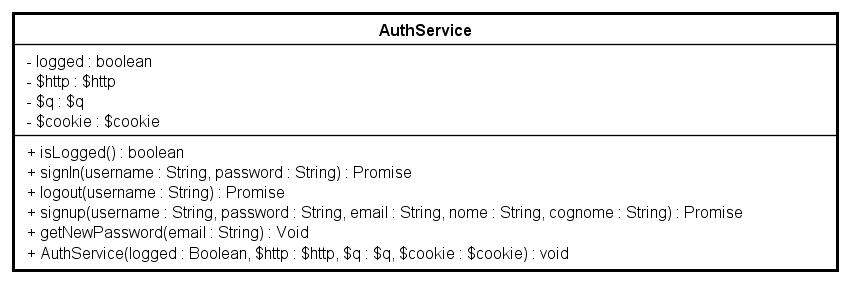
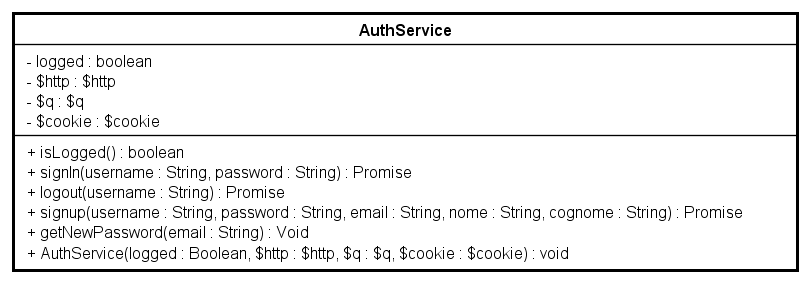
sistemate frasi/metodi che uscivano dal bordo

diff --git a/RP/DefinizioneDiProdotto/sezioni/Front-End/Services/QuizziPedia_Front-End_Services_QuizService.tex b/RP/DefinizioneDiProdotto/sezioni/Front-End/Services/QuizziPedia_Front-End_Services_QuizService.tex
@@ -51,12 +51,12 @@
 	\begin{itemize}
 		\item \texttt{username: String} \\ Parametro che rappresenta l'utente del quale andranno caricati tutti i questionari.
 	\end{itemize}
-	\item \texttt{+ getDoneQuestionnaire(username: String): Promise} \\ Metodo che restituisce tutti i questionari svolti da un utente. Il metodo ritorna una \textit{Promise\ped{G}}. In caso la \textit{Promise\ped{G}} venga rifiutata, verrà restituito al \texttt{UserDetailsController} un oggetto \texttt{ErrorModelInfo} contenente tutti i dettagli dell'errore; \\
+	\item \texttt{+ getDoneQuestionnaire(username: String): Promise} \\ Metodo che restituisce tutti i questionari svolti da un utente. Il metodo ritorna una \textit{Promise\ped{G}}. In caso la \textit{Promise\ped{G}} venga rifiutata, verrà restituito al \\ \texttt{UserDetailsController} un oggetto \texttt{ErrorModelInfo} contenente tutti i dettagli dell'errore; \\
 	\textbf{Parametri}: 
 	\begin{itemize}
 		\item \texttt{username: String} \\ Parametro che rappresenta l'utente del quale andranno caricati tutti i questionari svolti.
 	\end{itemize}
-	\item \texttt{+ createQuestionnaire(title: String, questions: QuestionnaireItemModel): Promise} \\ Metodo che permette di creare un nuovo questionario. Il metodo ritorna una \textit{Promise\ped{G}}. In caso la \textit{Promise\ped{G}} venga rifiutata, verrà restituito al \texttt{CreateQuestionnaireController} un oggetto \texttt{ErrorModelInfo} contenente tutti i dettagli dell'errore. In caso la \textit{Promise\ped{G}} venga accettata, verrà restituito al chiamante del metodo il risultato della chiamata;\\
+	\item \texttt{+ createQuestionnaire(title: String, questions: QuestionnaireItemModel): Promise} \\ Metodo che permette di creare un nuovo questionario. Il metodo ritorna una \textit{Promise\ped{G}}. In caso la \textit{Promise\ped{G}} venga rifiutata, verrà restituito al \\ \texttt{CreateQuestionnaireController} un oggetto \texttt{ErrorModelInfo} contenente tutti i dettagli dell'errore. In caso la \textit{Promise\ped{G}} venga accettata, verrà restituito al chiamante del metodo il risultato della chiamata;\\
 	\textbf{Parametri}:
 	\begin{itemize}
 		\item \texttt{title: String} \\ Parametro che rappresenta il titolo del questionario.

diff --git a/RP/DefinizioneDiProdotto/sezioni/Front-End/Services/QuizziPedia_Front-End_Services_AuthService.tex b/RP/DefinizioneDiProdotto/sezioni/Front-End/Services/QuizziPedia_Front-End_Services_AuthService.tex
@@ -24,7 +24,7 @@
 	\end{itemize}
 	\item \textbf{Metodi}:
 	\begin{itemize}
-		\item \texttt{+} \texttt{AuthService(logged: Boolean, \$http: \$http, \$q: \$q, \$cookie: \$cookie)} \\ Metodo costruttore della classe; \\
+		\item \texttt{+} \texttt{AuthService(logged: Boolean, \$http: \$http, \$q: \$q, \\ \$cookie: \$cookie)} \\ Metodo costruttore della classe; \\
 		\textbf{Parametri}:
 		\begin{itemize}
 			\item \texttt{logged: Boolean} \\ Parametro che indica se l'utente è loggato o no;
@@ -47,7 +47,7 @@
 			\item \texttt{username: String} \\ Parametro che rappresenta l'utente che vuole eseguire il logout.
 		\end{itemize}
 		
-		\item \texttt{+} \texttt{signup(username: String, password: String, email: String, nome: String, cognome: String): Promise} \\Metodo che permette di effettuare la registrazione all'applicazione tramite richiesta di creazione nuovo account al back-end. Il metodo ritorna una \textit{Promise\ped{G}}. In caso la \textit{Promise\ped{G}} venga rifiutata, verrà restituito al \texttt{SignUpController} un oggetto \texttt{ErrorModelInfo} contenente tutti i dettagli dell'errore. In caso la \textit{Promise\ped{G}} venga accettata, verrà restituito al chiamante del metodo il risultato della chiamata; \\
+		\item \texttt{+} \texttt{signup(username: String, password: String, email: String, \\ nome: String, cognome: String): Promise} \\Metodo che permette di effettuare la registrazione all'applicazione tramite richiesta di creazione nuovo account al back-end. Il metodo ritorna una \textit{Promise\ped{G}}. In caso la \textit{Promise\ped{G}} venga rifiutata, verrà restituito al \texttt{SignUpController} un oggetto \texttt{ErrorModelInfo} contenente tutti i dettagli dell'errore. In caso la \textit{Promise\ped{G}} venga accettata, verrà restituito al chiamante del metodo il risultato della chiamata; \\
 			\textbf{Parametri}:
 			\begin{itemize}
 				\item \texttt{username: String} \\ Parametro che rappresenta lo username o la email dell'utente;

diff --git a/RP/DefinizioneDiProdotto/sezioni/Front-End/Services/QuizziPedia_Front-End_Services_SearchService.tex b/RP/DefinizioneDiProdotto/sezioni/Front-End/Services/QuizziPedia_Front-End_Services_SearchService.tex
@@ -26,7 +26,7 @@
 			\item \texttt{\$http: \$http} \\ Campo dati contenente un riferimento al servizio \$http creato da \textit{Angular\ped{G}} per facilitare la comunicazione mediante protocollo \textit{HTTP\ped{G}};
 			\item \texttt{\$q: \$q} \\ Campo dati contenente un riferimento al servizio \$q creato da \textit{Angular\ped{G}} per facilitare la gestione di funzione asincrone mediante l’utilizzo delle \textit{Promise\ped{G}}.
 		\end{itemize}
-		\item \texttt{+} \texttt{searchUsers(keyword: String): Promise} \\Metodo che serve per recuperare la lista di utenti dopo una ricerca. Il metodo ritorna una \textit{Promise\ped{G}}. In caso la \textit{Promise\ped{G}} venga rifiutata, verrà restituito al \texttt{SearchController} un oggetto \texttt{ErrorModelInfo} contenente tutti i dettagli dell'errore. In caso la \textit{Promise\ped{G}} venga accettata, verrà restituito al chiamante del metodo il risultato della chiamata;\\
+		\item \texttt{+} \texttt{searchUsers(keyword: String): Promise} \\Metodo che serve per recuperare la lista di utenti dopo una ricerca. Il metodo ritorna una \textit{Promise\ped{G}}. In caso la \textit{Promise\ped{G}} venga rifiutata, verrà restituito al \\ \texttt{SearchController} un oggetto \texttt{ErrorModelInfo} contenente tutti i dettagli dell'errore. In caso la \textit{Promise\ped{G}} venga accettata, verrà restituito al chiamante del metodo il risultato della chiamata;\\
 		\textbf{Parametri}:
 		\begin{itemize}
 			\item \texttt{keyword: String} \\ Parametro che rappresenta la parola da cercare.

diff --git a/RP/DefinizioneDiProdotto/sezioni/Front-End/Services/QuizziPedia_Front-End_Services_QuestionsService.tex b/RP/DefinizioneDiProdotto/sezioni/Front-End/Services/QuizziPedia_Front-End_Services_QuestionsService.tex
@@ -46,7 +46,7 @@
 		\begin{itemize}
 			\item \texttt{question: QuestionItemModel} \\ Identifica tutti i dettagli di una domanda.
 		\end{itemize}
-		\item \texttt{+} \texttt{getUserQuestions(username: String): Promise} \\Metodo che ritorna tutte le domande create dall'utente. Il metodo ritorna una \textit{Promise\ped{G}}. In caso la \textit{Promise\ped{G}} venga rifiutata, verrà restituito al \texttt{QuestionsManagementController} un oggetto \texttt{ErrorModelInfo} contenente tutti i dettagli dell'errore. In caso la \textit{Promise\ped{G}} venga accettata, verrà restituito al chiamante del metodo il risultato della chiamata;\\
+		\item \texttt{+} \texttt{getUserQuestions(username: String): Promise} \\Metodo che ritorna tutte le domande create dall'utente. Il metodo ritorna una \textit{Promise\ped{G}}. In caso la \textit{Promise\ped{G}} venga rifiutata, verrà restituito al \\ \texttt{QuestionsManagementController} un oggetto \texttt{ErrorModelInfo} contenente tutti i dettagli dell'errore. In caso la \textit{Promise\ped{G}} venga accettata, verrà restituito al chiamante del metodo il risultato della chiamata;\\
 		\textbf{Parametri}:
 		\begin{itemize}
 			\item \texttt{username: String} \\ Parametro che indica l'utente del quale andranno caricate tutte le domande da lui create.

diff --git a/RP/DefinizioneDiProdotto/sezioni/Front-End/Views/QuizziPedia_Front-End_Views_SignUpView.tex b/RP/DefinizioneDiProdotto/sezioni/Front-End/Views/QuizziPedia_Front-End_Views_SignUpView.tex
@@ -16,7 +16,7 @@
 	\end{itemize}
 	\item \textbf{Attributi}:
 	\begin{itemize}
-		\item \texttt{+ user: Object} \\ Campo dati contenente i seguenti attributi: \texttt{name: String}, \texttt{surname: String}, \texttt{username: String}, \texttt{email: String}, \texttt{password: string} e \texttt{passwordCheck: String};
+		\item \texttt{+ user: Object} \\ Campo dati contenente i seguenti attributi: \texttt{name: String}, \texttt{surname: String}, \texttt{username: String}, \texttt{email: String}, \texttt{password: string} , \\ \texttt{passwordCheck: String};
 		\item \texttt{+ titleLangSignUp: String} \\ Attributo che viene utilizzato per visualizzare la giusta traduzione del titolo della pagina, in italiano o in inglese;
 		\item \texttt{+ nameLangSignUp: String} \\ Attributo che viene utilizzato per visualizzare la giusta traduzione della \textit{label\ped{G}} per l'inserimento del nome, in italiano o in inglese;
 		\item \texttt{+ surnameLangSignUp: String} \\ Attributo che viene utilizzato per visualizzare la giusta traduzione della \textit{label\ped{G}} per l'inserimento del cognome, in italiano o in inglese;

diff --git a/RP/DefinizioneDiProdotto/sezioni/Front-End/Directives/QuizziPedia_Front-End_Directives_EmptySpaceAnswerDirective.tex b/RP/DefinizioneDiProdotto/sezioni/Front-End/Directives/QuizziPedia_Front-End_Directives_EmptySpaceAnswerDirective.tex
@@ -9,7 +9,7 @@
 		\end{figure} \FloatBarrier
 		
 		\begin{itemize}
-			\item \textbf{Descrizione}: rappresenta il componente grafico che permette all'utente di visualizzare l'esercizio a riempimento di spazi vuoti. Viene visualizzato dinamicamente all'interno delle views \texttt{TrainingView} e \texttt{FillingQuestionnaireView} mediante il controller \texttt{QuestionsController};
+			\item \textbf{Descrizione}: rappresenta il componente grafico che permette all'utente di visualizzare l'esercizio a riempimento di spazi vuoti. Viene visualizzato dinamicamente all'interno delle views \texttt{TrainingView} e \texttt{FillingQuestionnaireView} mediante il controller \\ \texttt{QuestionsController};
 			\item \textbf{Utilizzo}: viene utilizzato per consentire all'utente la compilazione dell'esercizio a riempimento di spazi vuoti;
 			\item \textbf{Relazioni con altre classi}: 
 			\begin{itemize}

diff --git a/RP/DefinizioneDiProdotto/sezioni/Front-End/Directives/QuizziPedia_Front-End_Directives_SortImagesAnswerDirective.tex b/RP/DefinizioneDiProdotto/sezioni/Front-End/Directives/QuizziPedia_Front-End_Directives_SortImagesAnswerDirective.tex
@@ -9,7 +9,7 @@
 		\end{figure} \FloatBarrier
 		
 		\begin{itemize}
-			\item \textbf{Descrizione}: rappresenta il componente grafico che permette all'utente di visualizzare la domanda ad ordinamento di immagini. Viene visualizzato dinamicamente all'interno delle views \texttt{TrainingView} e \texttt{FillingQuestionnaireView} mediante il controller \texttt{QuestionsController};
+			\item \textbf{Descrizione}: rappresenta il componente grafico che permette all'utente di visualizzare la domanda ad ordinamento di immagini. Viene visualizzato dinamicamente all'interno delle views \texttt{TrainingView} e \texttt{FillingQuestionnaireView} mediante il controller \\ \texttt{QuestionsController};
 			\item \textbf{Utilizzo}: viene utilizzato per consentire all'utente la compilazione della domanda ad ordinamento di immagini;
 			\item \textbf{Relazioni con altre classi}: 
 			\begin{itemize}

diff --git a/RP/DefinizioneDiProdotto/sezioni/Front-End/Services/QuizziPedia_Front-End_Services_UserDetailsService.tex b/RP/DefinizioneDiProdotto/sezioni/Front-End/Services/QuizziPedia_Front-End_Services_UserDetailsService.tex
@@ -38,7 +38,7 @@
 		\textbf{Parametri}:
 		\begin{itemize}
 			\item \texttt{user: Object} \\ Parametro che indica l'oggetto contenente tutti i dati dell'utente che dovranno essere salvati dal back-end;
-			\item \texttt{imageObject: Object} \\ Oggetto contenente i seguenti attributi: \texttt{+ imageUrl: String}, \texttt{+ image: Object}.
+			\item \texttt{imageObject: Object} \\ Oggetto contenente i seguenti attributi: \texttt{+ imageUrl: String}, \\ \texttt{+ image: Object}.
 		\end{itemize}
 	
 	\end{itemize}
